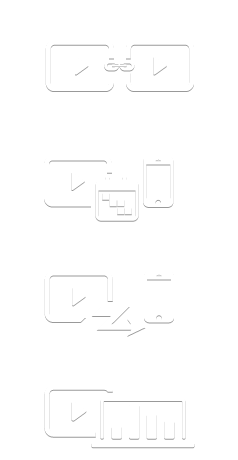
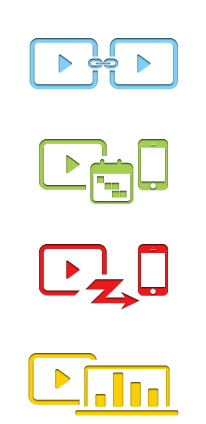
Added poi poll template. Updated poi type style and added poi_type image.
git-svn-id: http://everest.teltel.com:8080/repos/misc/trunk/ui/cms@5228 a0a5f996-2bb4-401c-8778-395c3c01700f

diff --git a/epcurate-curation.html b/epcurate-curation.html
@@ -7,7 +7,7 @@
 <meta http-equiv="expires" content="0" />
 <link rel="stylesheet" href="http://9x9ui.s3.amazonaws.com/poi/jquery.poi.css?v=1278" />
 <link rel="stylesheet" href="stylesheetsv3/style.css?v=1278" />
-<link rel="stylesheet" href="stylesheets/lightbox.css?v=1278" />
+<link rel="stylesheet" href="stylesheetsv3/lightbox.css?v=1278" />
 <link rel="stylesheet" href="stylesheets/uniform.css?v=1278" />
 <link rel="stylesheet" href="stylesheets/playback.css?v=1278" />
 <link rel="stylesheet" href="stylesheets/jquery.datepick.css?v=1278" />
@@ -585,6 +585,14 @@
                     <p>${nn._([cms.global.PAGE_ID, 'poi-event', 'Send a scheduled notification to user to get more information.'])}</p>
                 </div>
             </li>
+            <li class="event-poll">
+                <div class="block">
+                    <div class="img poll">
+                        <h4>${nn._([cms.global.PAGE_ID, 'poi-event', 'Poll'])}</h4>
+                    </div>
+                    <p>${nn._([cms.global.PAGE_ID, 'poi-event', 'Establish a multiple choice event, eg. a campaign, a poll, a survey, etc.'])}</p>
+                </div>
+            </li>
             <li class="event-instant">
                 <div class="block">
                     <div class="img instant">
@@ -787,6 +795,66 @@
                         <li class="btns"><span><a href="#" class="btn-save">${nn._([cms.global.PAGE_ID, 'poi-event', 'Save'])}</a></span></li>
                     </ul>
                 </div>
+            </div>
+        </form>
+    </div>
+    <div id="event-poll" class="event hide">
+        <form name="eventPollForm" id="eventPollForm" method="get" action="">
+            <input type="hidden" name="notifyMsg" value="" />
+            <input type="hidden" name="notifyScheduler" value="" />
+            <p class="crumb create"><a href="#" class="unblock">${nn._([cms.global.PAGE_ID, 'poi-event', 'Create POI'])}</a> &gt; <a href="#" class="crumb-event event-select">${nn._([cms.global.PAGE_ID, 'poi-event', 'Add interactive event'])}</a> &gt; ${nn._([cms.global.PAGE_ID, 'poi-event', 'Poll'])}</p>
+            <p class="crumb edit"><a href="#" class="unblock">${nn._([cms.global.PAGE_ID, 'poi-event', 'POI'])}</a> &gt; ${nn._([cms.global.PAGE_ID, 'poi-event', 'Interactive event : Poll'])}</p>
+            <p class="required"><acronym title="Required field" class="mark-required">*</acronym>${nn._([cms.global.PAGE_ID, 'poi-event', 'Required field'])}</p>
+            <div class="video-wrap">
+                <div id="event-poll-video" class="video"></div>
+                <div class="poi-display"></div>
+                <div class="mask">
+                    <p>${nn._([cms.global.PAGE_ID, 'poi-event', 'PREVIEW'])}</p>
+                    <p class="no-video hide">${nn._([cms.global.PAGE_ID, 'poi-event', 'There is no valid video to preview.'])}</p>
+                </div>
+            </div>
+            <div class="event-input">
+                <div class="fminput">
+                    <label for="poll_display_text"><acronym title="Required field" class="mark-required">*</acronym>${nn._([cms.global.PAGE_ID, 'poi-event', 'Display text'])}:</label>
+                    <p class="text"><span><input type="text" name="displayText" id="poll_display_text" value="${message}" placeholder="${nn._([cms.global.PAGE_ID, 'poi-event', 'Input display text'])}" class="text poll-text" /></span></p>
+                </div>
+                <div class="fminput">
+                    <label for="poll_button_text"><acronym title="Required field" class="mark-required">*</acronym>${nn._([cms.global.PAGE_ID, 'poi-event', 'Button text'])}:</label>
+                    <p class="text poll">
+                        <span>
+                            <input type="text" name="btnText" id="poll_button_text" maxlength="20" value="${button}" placeholder="${nn._([cms.global.PAGE_ID, 'poi-event', 'Input display text'])}" class="text poll-button" />                    
+                        </span>
+                    </p>
+                    <p class="text poll">
+                        <span>
+                            <input type="text" name="btnText" id="poll_button_text" maxlength="20" value="${button}" placeholder="${nn._([cms.global.PAGE_ID, 'poi-event', 'Input display text'])}" class="text poll-button" />                    
+                        </span>
+                    </p>
+                    <p class="text poll">
+                        <span>
+                            <input type="text" name="btnText" id="poll_button_text" maxlength="20" value="${button}" placeholder="${nn._([cms.global.PAGE_ID, 'poi-event', 'Input display text'])}" class="text poll-button" />                    
+                        </span>
+                    </p>
+                    <p class="text poll">
+                        <span>
+                            <input type="text" name="btnText" id="poll_button_text" maxlength="20" value="${button}" placeholder="${nn._([cms.global.PAGE_ID, 'poi-event', 'Input display text'])}" class="text poll-button" />                    
+                        </span>
+                    </p>
+                    <div class="btn-gray">
+                        <p class="left"></p>
+                        <p class="center">
+                            <a href="#" class="langkey">Add Button</a>
+                        </p>
+                        <p class="right"></p>
+                    </div>
+                </div>
+            </div>
+            <div class="func">
+                <ul>
+                    <li class="notice">${nn._([cms.global.PAGE_ID, 'poi-event', 'Please fill in all required fields.'])}</li>
+                    <li class="btns"><span><a href="#" class="btn-cancel">${nn._([cms.global.PAGE_ID, 'poi-event', 'Cancel'])}</a></span></li>
+                    <li class="btns"><span><a href="#" class="btn-save">${nn._([cms.global.PAGE_ID, 'poi-event', 'Save'])}</a></span></li>
+                </ul>
             </div>
         </form>
     </div>

diff --git a/stylesheetsv3/lightbox.css b/stylesheetsv3/lightbox.css
@@ -914,16 +914,16 @@
 }
 
 #poi-event-overlay .wrap .content ul.list li .block .img {
-    width: 237px;
-    height: 113px;
-    margin: 9px 0 14px 10px;
-    border-radius: 3px;
+    width: 205px;
+    height: 104px;
+    margin: 15px auto 14px auto;
+    border-radius: 6px;
     background: url(../images/poi_type.png) no-repeat 0 0;
     cursor: pointer;
 }
 
 #poi-event-overlay .wrap .content ul.list li:hover .block .img {
-    margin: 8px 0 14px 9px;
+    margin: 14px auto 14px auto;
 }
 
 #poi-event-overlay .wrap .content ul.list li .block .img.hyper {
@@ -938,7 +938,7 @@
     box-shadow: 0 1px 10px rgba(231, 244, 196, 0.75) inset, 0 0 10px rgba(255, 255, 227, 0.9) inset, 0 0 2px rgba(255, 255, 255, 0.9) inset, 0 0 20px rgba(163, 207, 80, 0.5);
     border: 1px solid #6cc042;
     background-color: #c1dca7;
-    background-position: 0 -116px;
+    background-position: 0 -106px;
     behavior: url(PIE.htc);
 }
 
@@ -946,7 +946,18 @@
     box-shadow: 0 1px 10px rgba(238, 126, 125, 0.1) inset, 0 0 10px rgba(255, 255, 255, 0.9) inset, 0 0 2px rgba(255, 143, 149, 0.9) inset, 0 0 20px rgba(237, 28, 36, 0.1);
     border: 1px solid #bb3d3c;
     background-color: #ddbaba;
-    background-position: 0 -231px;
+    background-position: 0 -212px;
+    behavior: url(PIE.htc);
+}
+
+#poi-event-overlay .wrap .content ul.list li .block .img.poll {
+    /*box-shadow: 0 1px 10px rgba(231, 244, 196, 0.75) inset, 0 0 10px rgba(255, 255, 227, 0.9) inset, 0 0 2px rgba(255, 255, 255, 0.9) inset, 0 0 20px rgba(163, 207, 80, 0.5);
+    border: 1px solid #ffc13e;
+    background-color: #fff3b1;*/
+    box-shadow: 0 1px 10px rgba(246, 215, 68, 0.75) inset, 0 0 10px rgba(255, 255, 118, 0.9) inset, 0 0 2px rgba(252, 208, 0, 0.9) inset, 0 0 20px rgba(246, 215, 68, 0.5);
+    border: 1px solid #a96c1e;
+    background-color: #e6d7ab;
+    background-position: 0 -318px;
     behavior: url(PIE.htc);
 }
 
@@ -1117,12 +1128,17 @@ body.from-poi-edit-mode #poi-event-overlay .wrap .content .func ul li.notice {
     color: #555;
     font-weight: bold;
     font-size: 13px;
+    text-align: left;
 }
 
 #poi-event-overlay .wrap .content .event-input .fminput p.text {
     float: left;
     height: 30px;
     padding: 0 0 0 3px;
+}
+
+#poi-event-overlay .wrap .content .event-input .fminput p.text.poll {
+    margin-right: 8px;
 }
 
 #poi-event-overlay .wrap .content .event-input .fminput p.text span {
@@ -1141,6 +1157,18 @@ body.from-poi-edit-mode #poi-event-overlay .wrap .content .func ul li.notice {
     background-position: 0 -60px;
     color: #555;
     font: 13px/30px Arial, Helvetica;
+}
+
+#poi-event-overlay .wrap .content .event-input .fminput p.text span .text.poll-text {
+    width: 580px;
+}
+
+#poi-event-overlay .wrap .content .event-input .fminput p.text span .text.poll-button {
+    width: 105px;
+}
+
+#poi-event-overlay .wrap .content .event-input .fminput .btn-gray .center a {
+    padding: 2px 5px;
 }
 
 #poi-event-overlay .wrap .content .event-input .fminput .notice {
